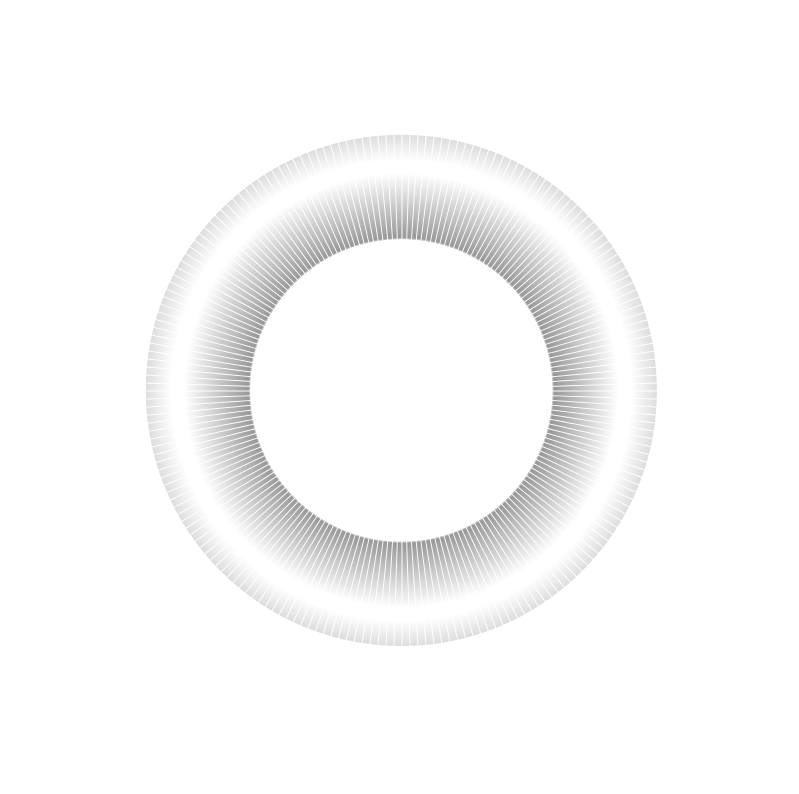
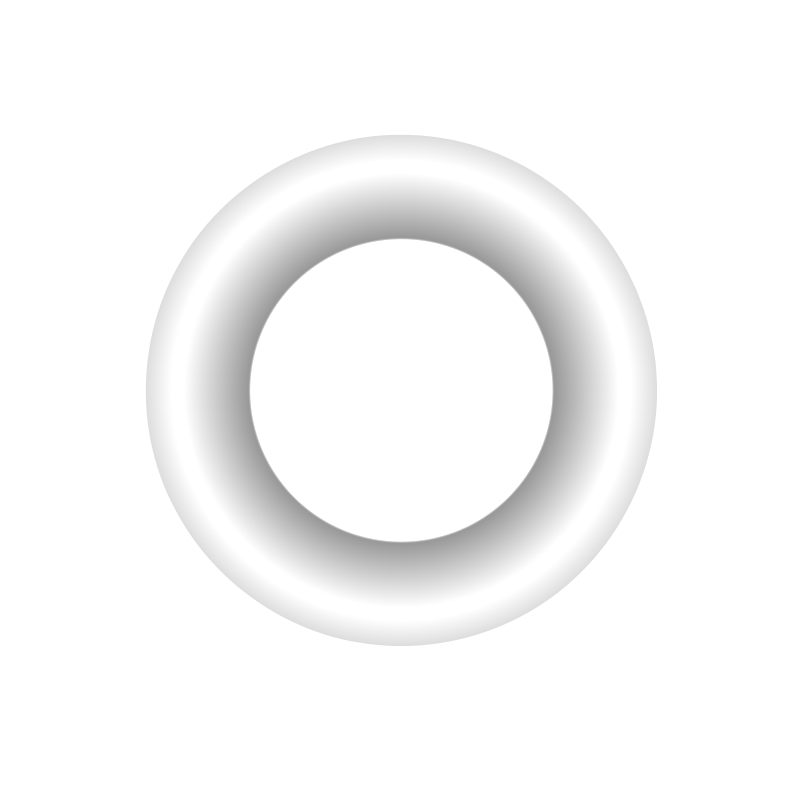
Change ValueBar png file (change to no mesh design, in order to avoid moire on low dpi device)
git-svn-id: file:///c/Users/kuniaki/Repository/DefiSSMCOM_Websocket_Client/trunk@75 7cc1f472-cefd-7e4e-af8e-9376319497b1

Changed region(s): [[0.2703, 0.2418, 0.7509, 0.7254]]

diff --git a/WebsocketCanvasGauge/public_html/Samples/parts/FullCircularGauge/FullCircularGauge.html b/WebsocketCanvasGauge/public_html/Samples/parts/FullCircularGauge/FullCircularGauge.html
@@ -280,7 +280,7 @@ and open the template in the editor.
     <body>
         <div class="meter">          
             <canvas id="redzone_bar1" width="799" height="794" style="position:absolute;z-index:1"></canvas>           
-            <img src="FullCircularGauge_Grid.png" alt="" style="position:absolute;z-index:1">
+            <img src="FullCircularGauge_Grid.png" alt="" style="position:absolute;z-index:2">
             <canvas id="value_bar1" width="799" height="794" style="position:absolute;z-index:3"></canvas>
             <img src="FullCircularGauge_Shaft.png" alt="" style="position:absolute;z-index:4">
             
